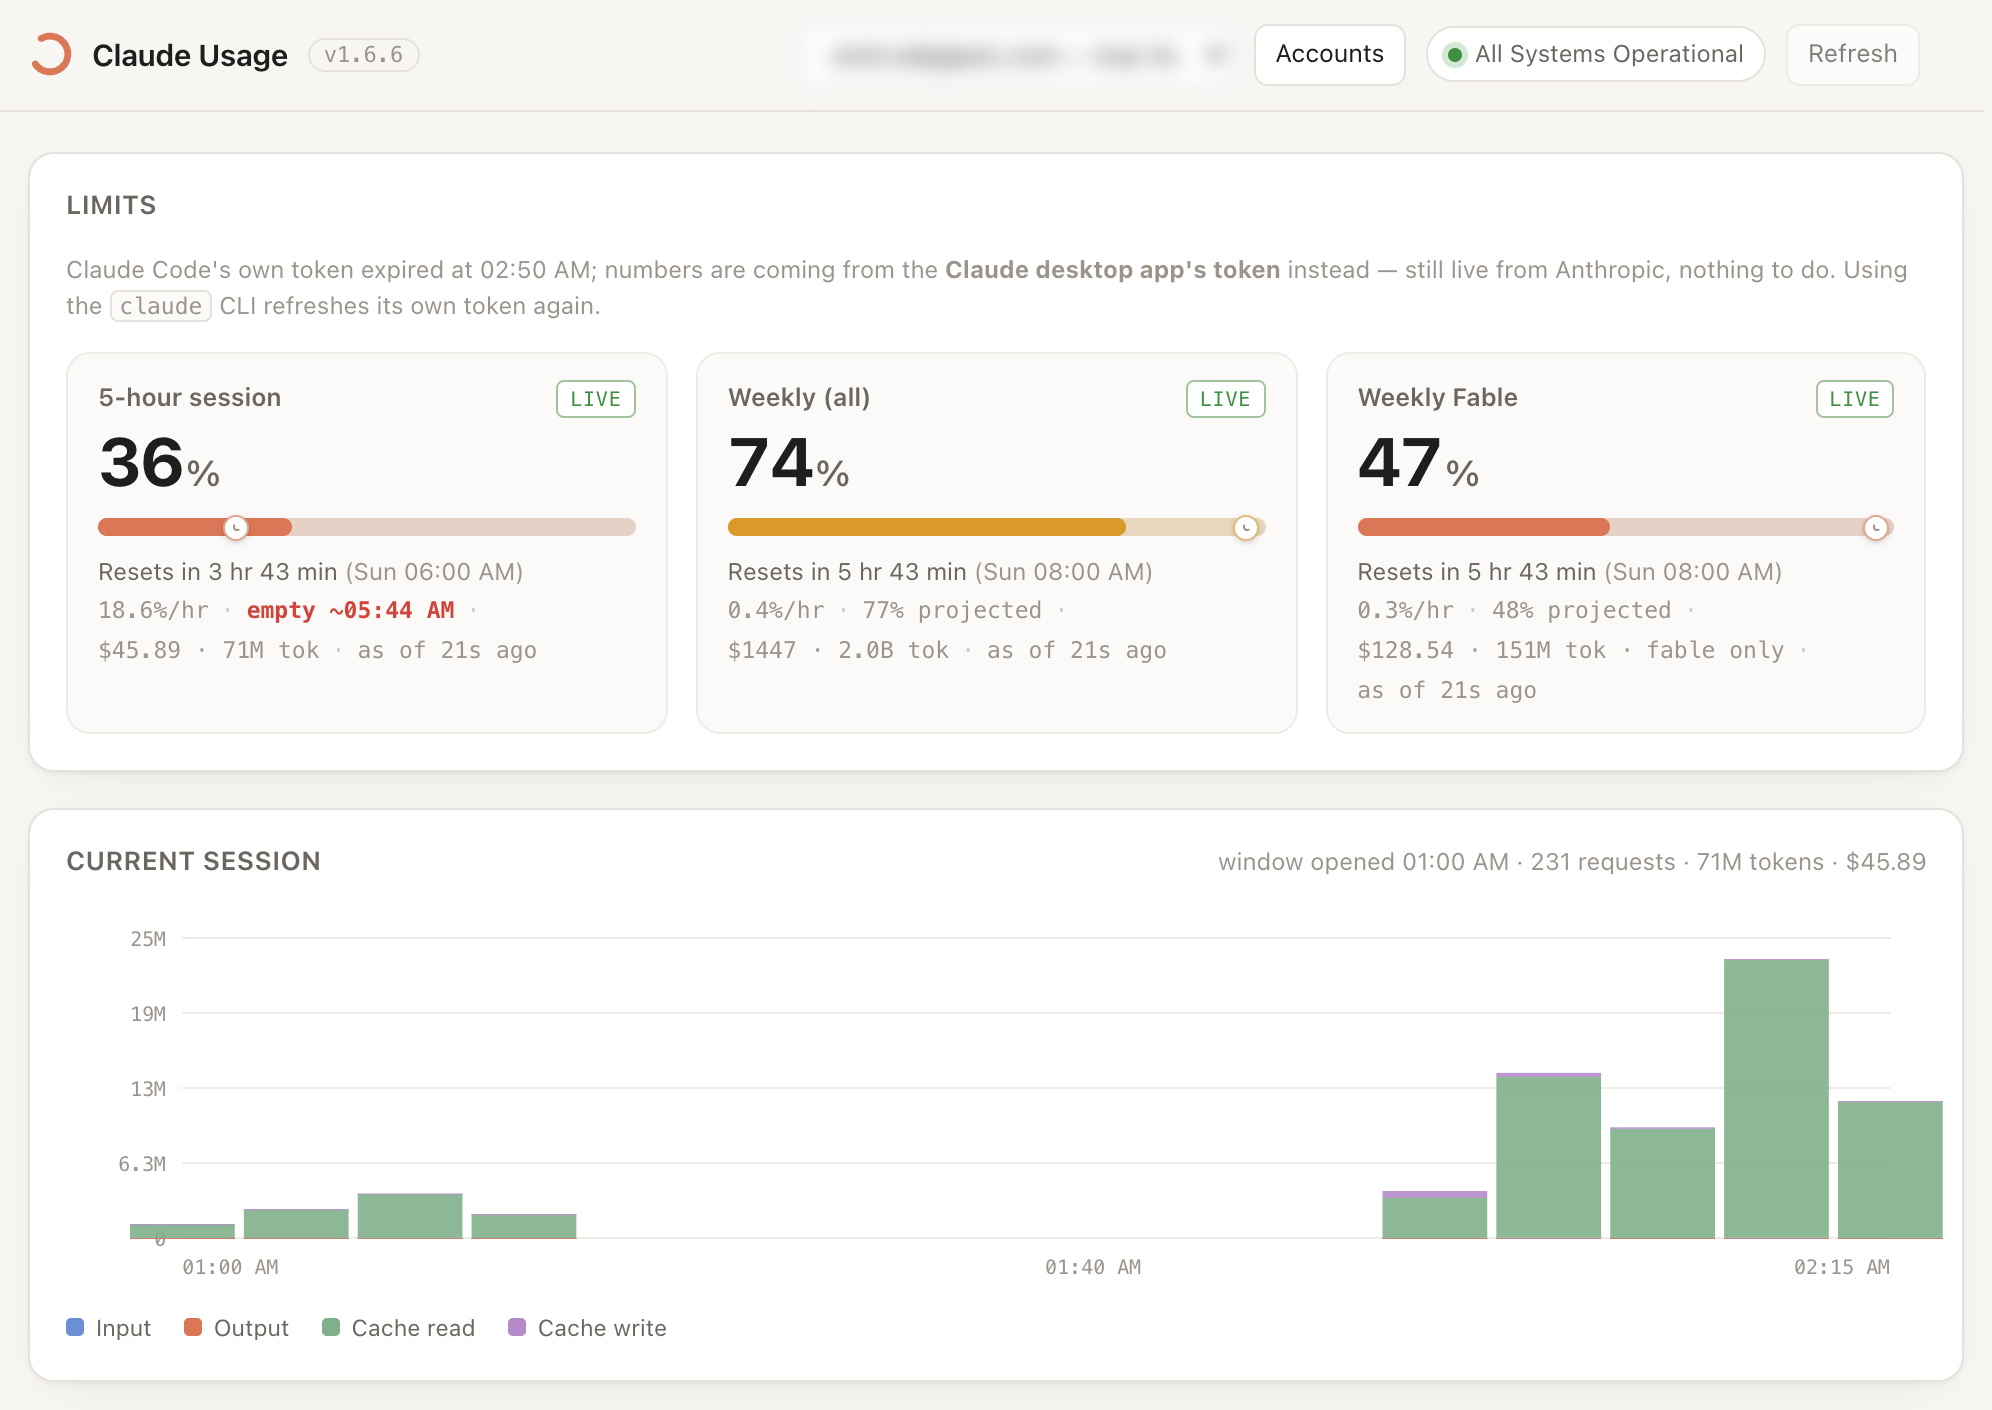
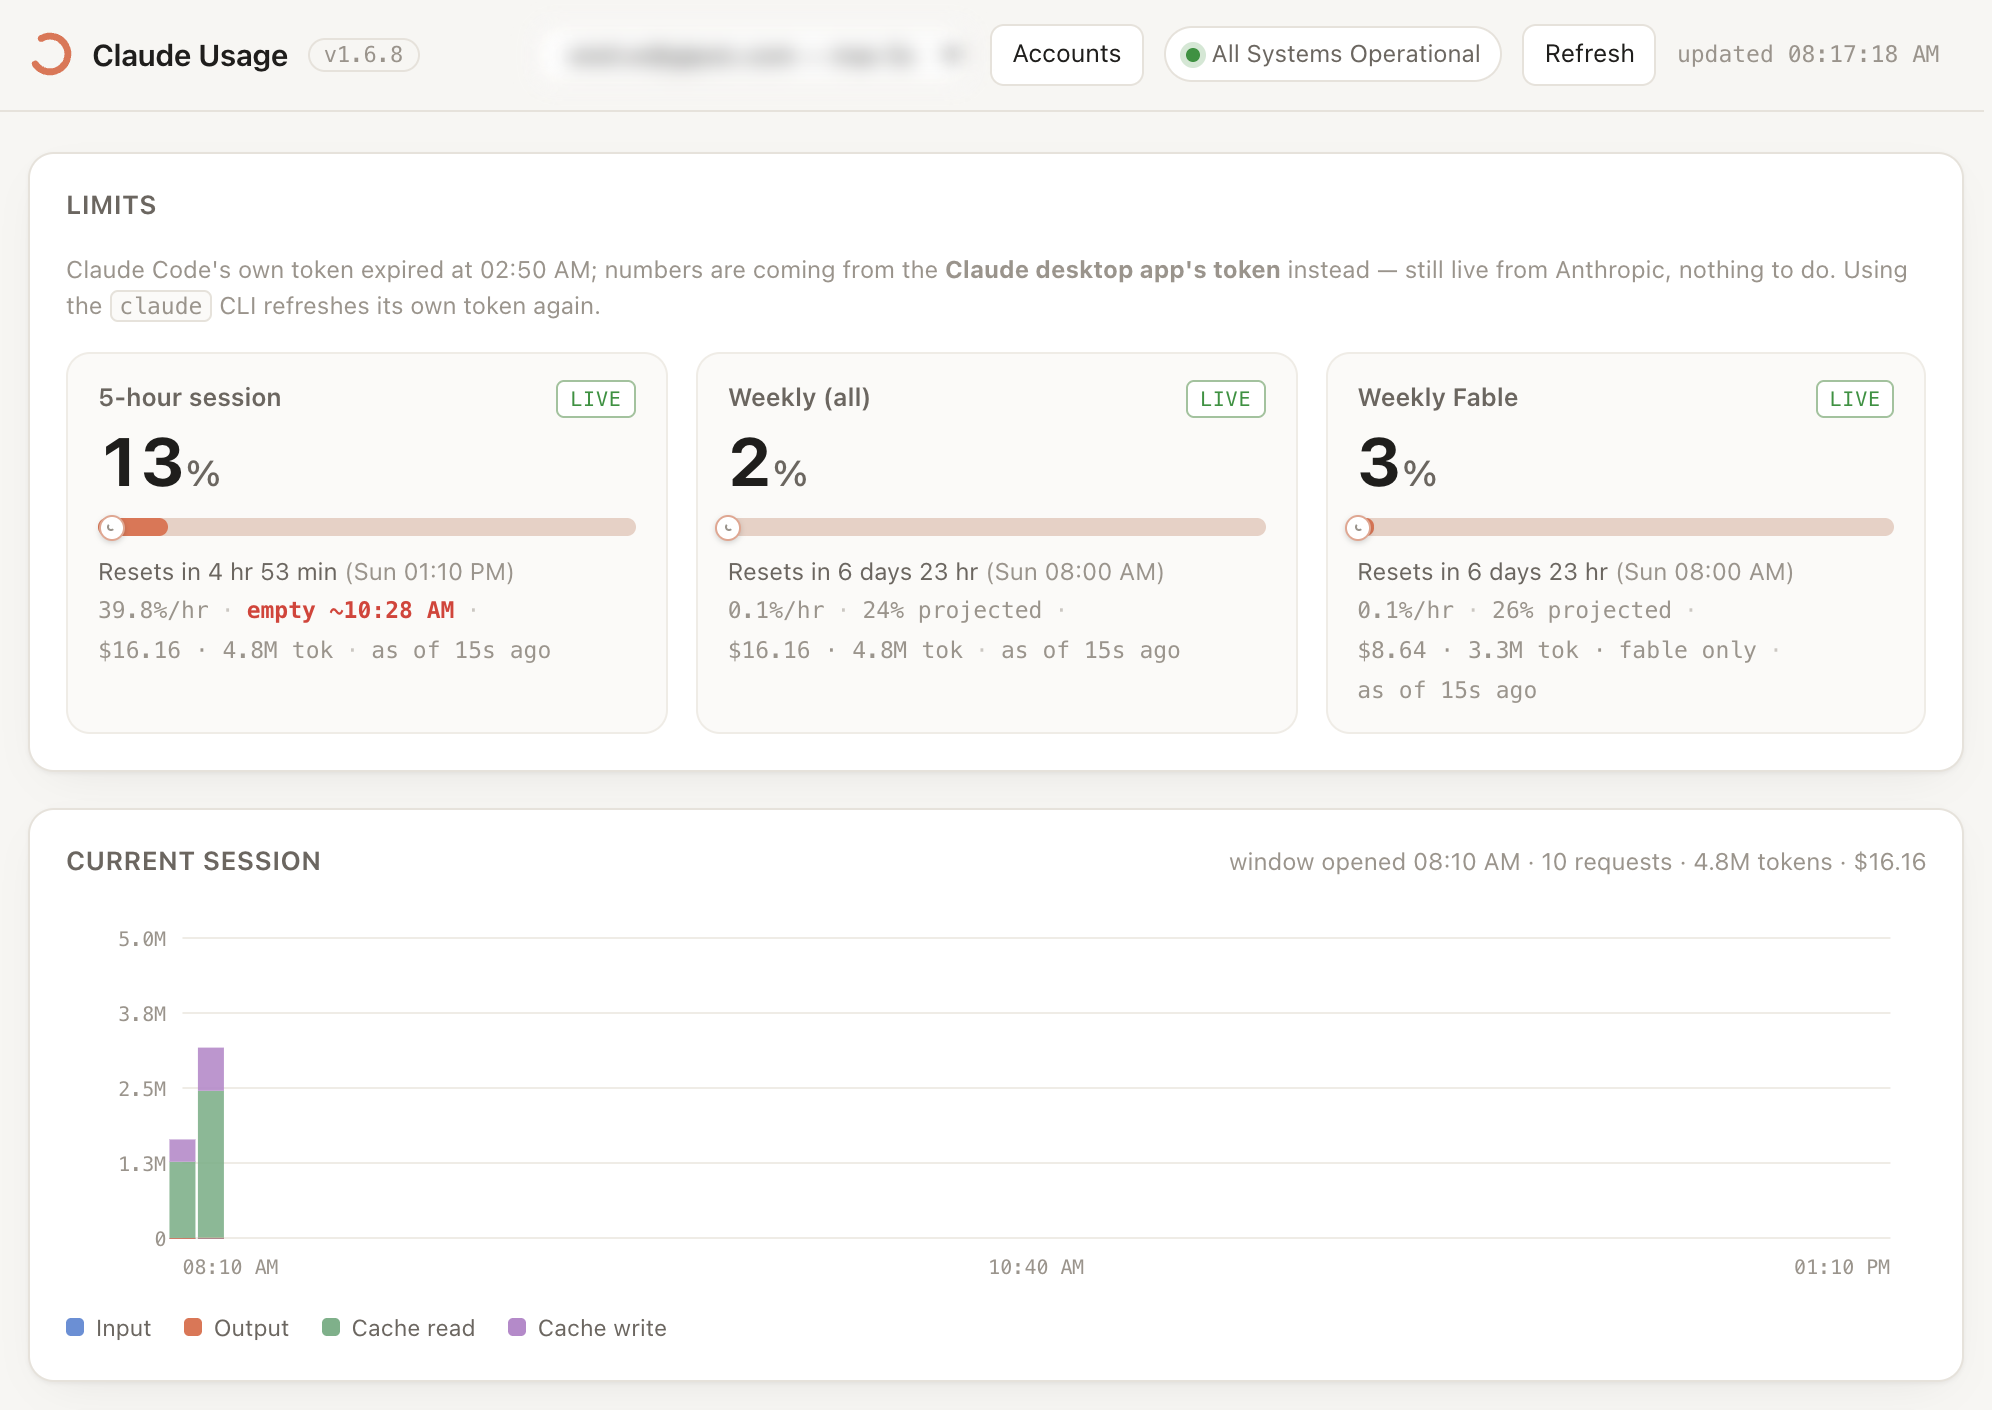
1.6.9: no forecasts off the first minutes of a window; the session chart stays in its panel
A burst five minutes into a fresh 5-hour window read as 74.8%/hr, empty by
09:29, and one request into the new week as empty by Monday. Rates are now
measured over at least a tenth of the window (30 min / ~17 h).

With one or two five-minute buckets the Current session chart sized each bar
as a share of the chart and hung it past the axis. Bars are capped and the
axis spans the whole window.

diff --git a/web/app.js b/web/app.js
@@ -209,7 +209,14 @@ async function renderSession(sum) {
   // Bound to the window itself: it opened with its first message, which is
   // rarely five hours ago, and the previous window's tail must not show here.
   const s = await api('/api/series', { range: '5h', bucket: 5 * 60e3, ...(w.start ? { from: w.start } : {}) });
-  stackedChart(host, s.points, {
+  // Pad with empty buckets to the window's end so the axis spans the whole
+  // window and a just-opened window is not stretched across the chart.
+  const points = s.points.slice();
+  if (w.resetsAt && points.length) {
+    const zero = Object.fromEntries(SERIES.map((k) => [k.key, 0]));
+    for (let b = points[points.length - 1].b + s.bucket; b < w.resetsAt; b += s.bucket) points.push({ b, ...zero, events: 0, cost: 0 });
+  }
+  stackedChart(host, points, {
     series: SERIES, height: 190, mode: 'bar',
     xFmt: (b, full) => new Date(b).toLocaleTimeString([], full
       ? { hour: '2-digit', minute: '2-digit', second: '2-digit' }

diff --git a/web/charts.js b/web/charts.js
@@ -99,7 +99,9 @@ export function stackedChart(host, points, {
   }
 
   if (mode === 'bar') {
-    const bw = Math.max(1, (iw / points.length) - 1);
+    // With one or two buckets (a window that just opened) iw/points would be a
+    // bar half the chart wide, hanging out past the axis. Cap it.
+    const bw = Math.max(1, Math.min(28, (iw / points.length) - 1));
     points.forEach((p, i) => {
       let acc = 0;
       const g = el('g');

diff --git a/CLAUDE.md b/CLAUDE.md
@@ -1,7 +1,7 @@
 # claude-usage — engineering handoff
 
 Read this before touching code. It is the state of the project as of 2026-09-20
-(v1.6.8), the decisions that were made deliberately, the traps already
+(v1.6.9), the decisions that were made deliberately, the traps already
 stepped in, and what to build next. The user (Wisit, GIPSIC) reads Thai and
 English; reply in the language they write in, and lead with status.
 
@@ -153,7 +153,7 @@ live do API-only windows go stale.
 
 ## Testing
 
-`npm test` — 73 tests, hermetic: `tempHome()` sets `CLAUDE_USAGE_HOME`,
+`npm test` — 74 tests, hermetic: `tempHome()` sets `CLAUDE_USAGE_HOME`,
 `CLAUDE_USAGE_NO_KEYCHAIN=1`, `CLAUDE_USAGE_OFFLINE=1`, a fake desktop-cache path,
 and copies `test/fixtures/` **per process** (a shared copy raced between
 `scanner.test` and `server.test`). `CLAUDE_USAGE_MOCK_USAGE='{"status":401}'` or

diff --git a/CHANGELOG.md b/CHANGELOG.md
@@ -6,6 +6,12 @@ All notable changes are recorded here. The format follows
 
 ## [Unreleased]
 
+## [1.6.9] — 2026-09-20
+
+### Fixed
+- **Right after a window opened, the cards forecast nonsense.** A burst five minutes into a fresh 5-hour window read as `74.8%/hr · empty ~09:29 AM`, and one request into the new week as `empty ~Mon`. Rates are now measured over at least a tenth of the window (30 min for the session, ~17 h for the weekly), so early usage is spread over a span that can carry it.
+- **The Current session chart spilled out of its panel** when the window had one or two five-minute buckets: each bar was sized as a share of the chart and hung past the axis. Bars are capped, and the axis now spans the whole window (empty buckets to the reset), so a just-opened window shows a small bar at the left, not a wall.
+
 ## [1.6.8] — 2026-09-20
 
 ### Fixed
